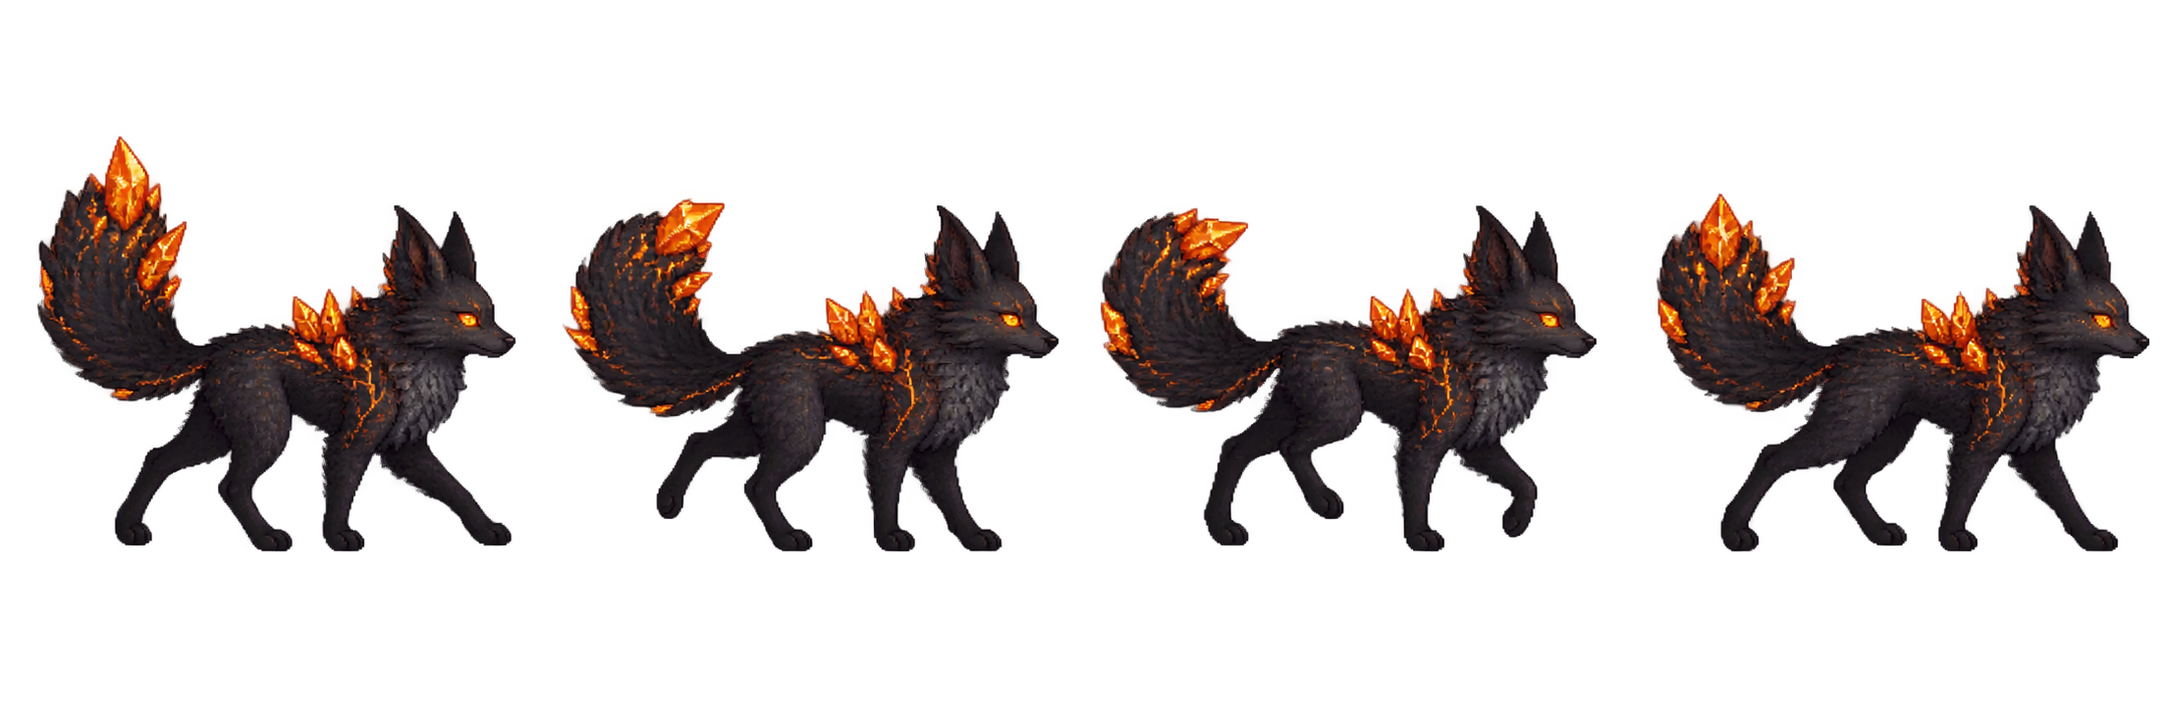
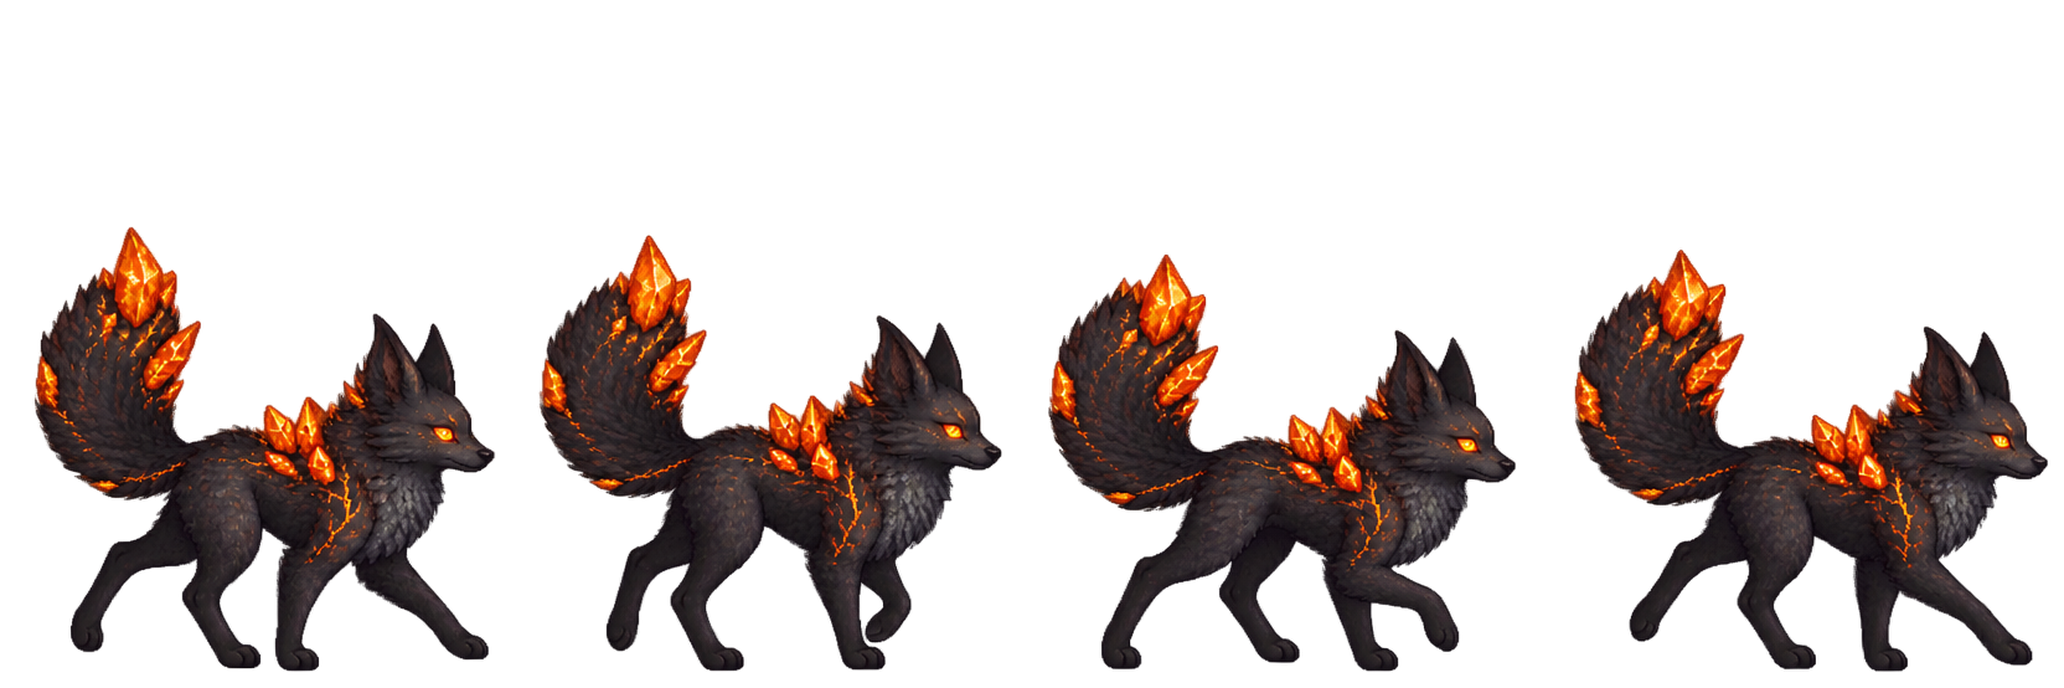
Round 303: the Cinder Fox walks (#83)
The owner's eight-frame walk for Elaris's Cinder Fox (also Vespera's Static Fox
and Chronospire's Gearhound, recolored): frames 1, 3, 5 and 7 cut with one
shared window, at .8s. SPRITE_VERSION 303. pacing and round76 no longer trip on
a Wanted rogue's bonus XP.

Claude-Session: https://claude.ai/code/session_01XB2RMCaJ1aVVtBjSNk3FhS

diff --git a/assets/elaris-wildlife.js b/assets/elaris-wildlife.js
@@ -16,7 +16,7 @@ Object.assign(enemies,ELARIS_WILDLIFE);
 // Round 172: art-only keys for the old forest sheets. Vespera and Chronospire recolor these,
 // so Solaris species can get their own art without changing the other worlds.
 const WILDLIFE_ART={
- forestFox:{name:'Cinder Fox',sheet:'cinder-fox',cycle:'.95s'},
+ forestFox:{name:'Cinder Fox',sheet:'cinder-fox',cycle:'.8s'}, // Round 303: the owner's eight-frame walk (also the Static Fox and Gearhound, recolored)
  forestHeron:{name:'Drowned Heron',sheet:'drowned-heron',cycle:'1.4s'},
  forestStag:{name:'Blight Antler',sheet:'blight-antler',cycle:'1.2s'},
  forestMoth:{name:'Storm Moth',sheet:'storm-moth',cycle:'.7s'},
@@ -45,7 +45,7 @@ const cityMonsterArt=monsterArt;
 // Round 196: a sheet name with a folder ('sky/zenith-roc') is read from assets/monsters/<folder>/;
 // big:true draws it in the larger boss box.
 // Round 200: bump SPRITE_VERSION when sheets are re-cut, so browsers fetch the new images.
-const SPRITE_VERSION='302';
+const SPRITE_VERSION='303';
 function wildlifeSheetUrl(sheet){return 'assets/monsters/'+(sheet.includes('/')?sheet:'elaris/'+sheet)+'.png?v='+SPRITE_VERSION}
 monsterArt=function(id){const animal=ELARIS_WILDLIFE[id]||WILDLIFE_ART[id];if(!animal)return cityMonsterArt(id);return '<span class="monster-sprite wildlife-sprite'+(animal.big?' bloom-tyrant':'')+'" role="img" aria-label="'+animal.name+'" style="background-image:url('+wildlifeSheetUrl(animal.sheet)+');--wildlife-cycle:'+animal.cycle+'"></span>'};
 // Round 249: a boss node's sprite box was square (142px, sized for Neon Aftermath's boss pictures), which

diff --git a/index.html b/index.html
@@ -553,7 +553,7 @@ if(localStorage.getItem(SAVE_KEY))$('resumeBtn').classList.remove('hidden');
 addEventListener('resize',()=>{fitWorld();fitMap();renderTalentConnectors()});fitWorld();
 requestAnimationFrame(loop);
 </script>
-<script src="assets/elaris-wildlife.js?v=round302"></script>
+<script src="assets/elaris-wildlife.js?v=round303"></script>
 <script src="assets/solaris-data.js?v=round232"></script>
 <script src="assets/expansion.js?v=round291"></script>
 <script src="assets/encounter-depth.js?v=round280"></script>

diff --git a/CHANGES.md b/CHANGES.md
@@ -3496,6 +3496,20 @@ Playtest of Neon Aftermath's three relics (Moon Lens 5,4; Ember Sigil 5,7; Briar
 - Talent descriptions list the per-rank values. Tests updated: round76, chronospire,
   talent-matrix, card-variety, plating-armor.
 
+## Round 303: the Cinder Fox walks
+
+- The owner sent an eight-frame walk for Elaris's Cinder Fox (`elarisFox`): a charcoal fox with ember crystals and a
+  curled bushy tail. The source strip is `assets/monsters/elaris/src/cinder-fox-walk8.png`.
+- Frames 1, 3, 5 and 7 are cut with one shared window, as in Rounds 299–302, then padded. The result replaces
+  `assets/monsters/elaris/cinder-fox.png`. The sheet is now 2064×688; the forest sheets were 2172×724, and the layout
+  check accepts both.
+- The cycle is .8s (the owner's 800ms), down from .95s.
+- The sheet is the shared `forestFox` art, so Vespera's Static Fox (blue hue) and Chronospire's Gearhound (bronze
+  sepia) walk with it too, still recolored. Both were checked in Chromium.
+- `SPRITE_VERSION` 303. New `tests/cinder-fox.test.cjs`.
+- Test fix: in about 1 journey in 20, the patrol `pacing` and `round76` fight in Neon Aftermath's room 1,5 is a Round 298
+  Wanted rogue, whose +40 XP broke the exact-XP check. Both tests now clear `b.wanted`, as they already clear the bounty.
+
 ## Round 302: the Sky Isles bosses move
 
 The owner sent eight-frame animations for the Sky Isles' two mini-bosses and its final boss. Each is cut like Rounds

diff --git a/CLAUDE.md b/CLAUDE.md
@@ -4,7 +4,7 @@ Aethercede is a browser card-battler/exploration game in vanilla JS with no
 build step. Open `index.html` directly. `compendium.html` is the card
 gallery; `arena.html` is a standalone prototype and is left untouched.
 
-**Read `CHANGES.md` first.** Every round of work (Round 1 to Round 302) is
+**Read `CHANGES.md` first.** Every round of work (Round 1 to Round 303) is
 logged there with its reasoning. Add a new `## Round N:` entry for each
 change set.
 
